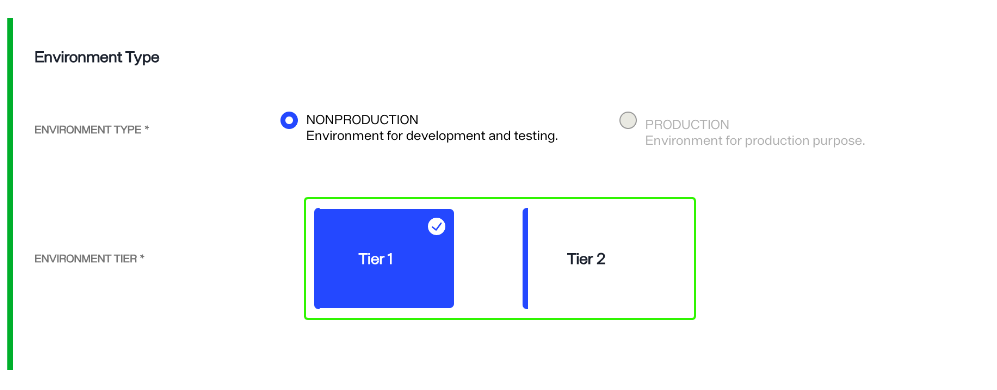
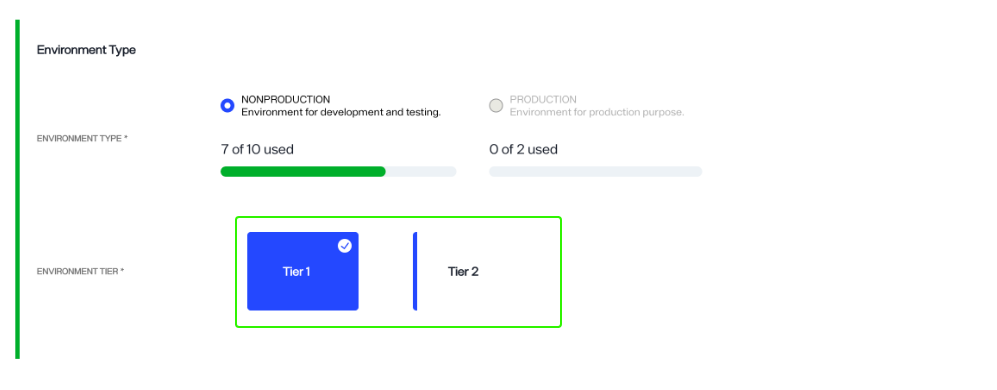
update env overview - create env

diff --git a/documentation/environment-operations-center-guide/environments/environment-overview/create-an-environment.md b/documentation/environment-operations-center-guide/environments/environment-overview/create-an-environment.md
@@ -39,9 +39,11 @@ Start by selecting the required **Environment Type** and **Environment Tier**.
 
 To set the **Environment Type**, use the radio buttons to select either **Non-production**, for development and testing, or **Production**, for production purposes.
 
-[!note] If your organization has already configured the maximum number of production environments available for your tier, the production option will be greyed out and not able to be selected. Hovering over **Production** will display a confirmation message that your organization has already used the maximum number of production environments.
-
 ![image description](images/create-env-type.png) 
+
+A status bar located just below the environment types indicates how many of your available production and non-production environments have been used. If your organization has already configured the maximum number of environments available in your tier, the environment type and associated radio button will be greyed out.
+
+![image description](images/env-type-used.png)
 
 #### Environment tier
 
